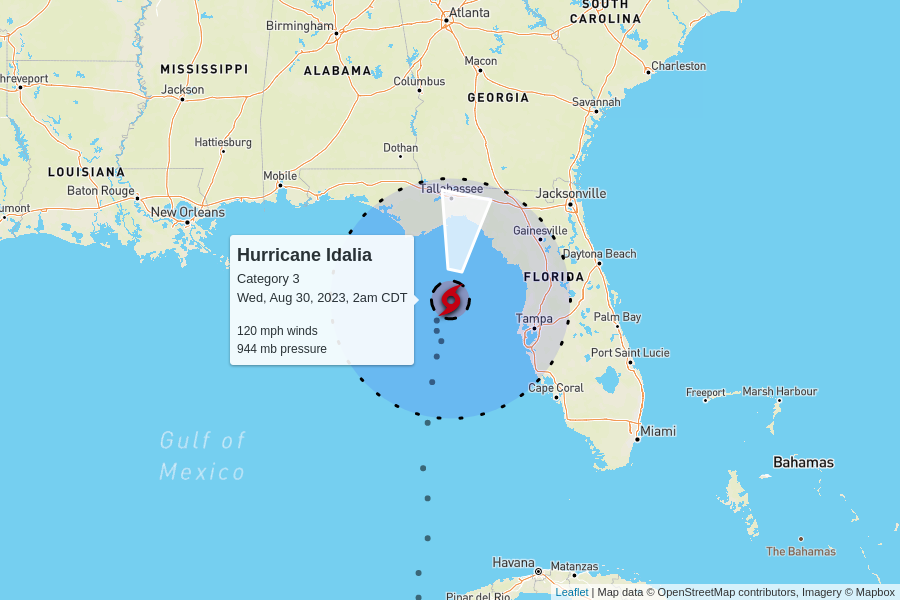
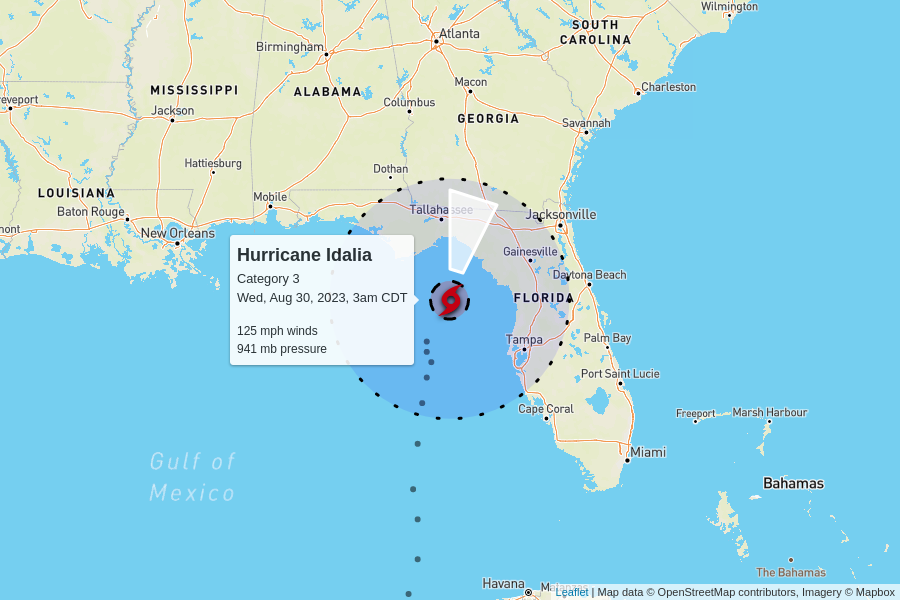
automatic update

diff --git a/docs/index.html b/docs/index.html
@@ -100,7 +100,7 @@
         <td colspan="6" class="storm category-3" >
           <h2>
             Hurricane Idalia - Category 3
-            <p class="updated">last updated <span data-time>2023-08-30T07:00:00.000Z</span></p>
+            <p class="updated">last updated <span data-time>2023-08-30T08:00:00.000Z</span></p>
           </h2>
         </td>
       </tr>
@@ -115,12 +115,12 @@
       </tr>
       <tr>
         <td class="spacer"></td>
-        <td>120 mph</td>
-        <td>944 mb</td>
+        <td>125 mph</td>
+        <td>941 mb</td>
         <td>
-          15 mph to the north
+          17 mph to the north-northeast
           <br/>
-          <span style="display: inline-block; font-size: 1.5em; transform: rotate(10deg);">↑</span>
+          <span style="display: inline-block; font-size: 1.5em; transform: rotate(15deg);">↑</span>
         </td>
         <td><a href="https://raw.githubusercontent.com/mgwalker/atlantic-hurricanes/main/data/csv/AL102023.csv">AL102023.csv</a></td>
         <td><a href="https://www.nhc.noaa.gov/archive/2023/IDALIA.shtml?">NHC advisories</a></td>
